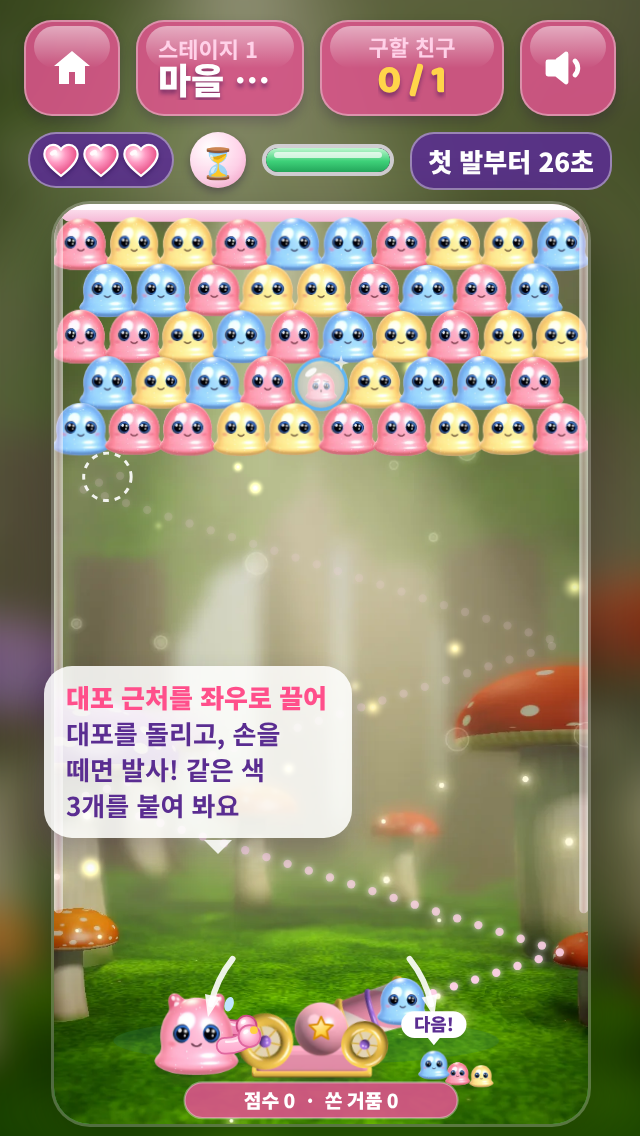
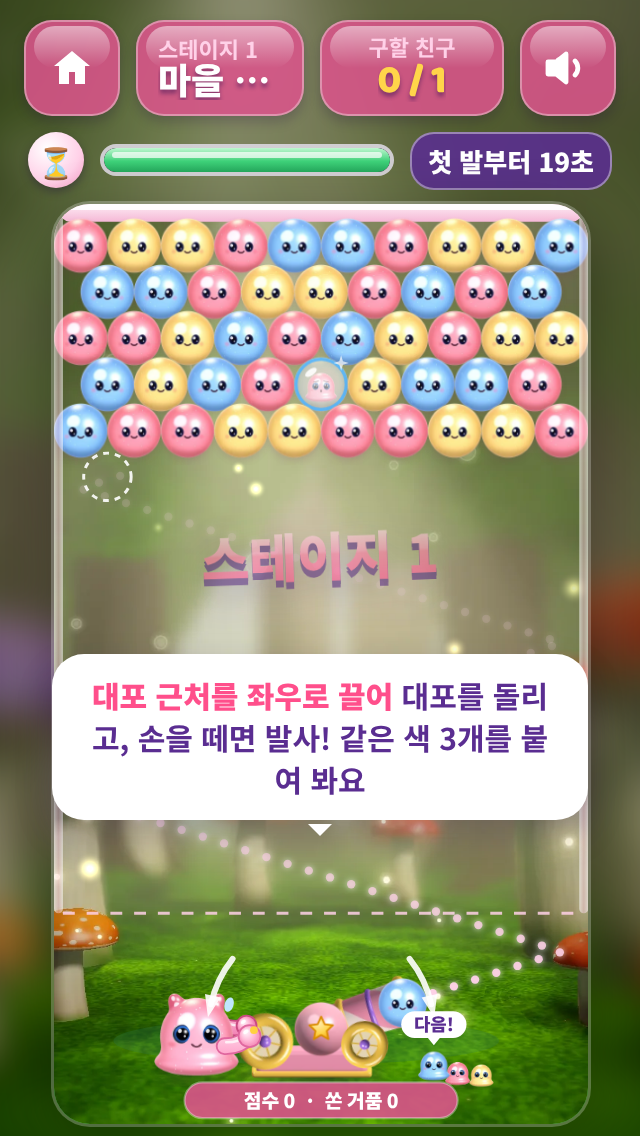
0.15.0: 부두목전·보너스 스테이지·생명 3개·젤리 표정·낮아진 게임 오버 선·구미 젤리 모양
Claude-Session: https://claude.ai/code/session_01AosnshKJVAfHh3YQHkDpCG

diff --git a/index.html b/index.html
@@ -1094,8 +1094,8 @@ function lowerCeiling(rows, text, kind = 'ceil') {
   sfx('boss');
   if (G.state === 'aim') {
     G.b.y0 = G.y0Target;
-    if (Board.lowestY(G.b) + R > LOSE_Y) finish(false, 'line');
-    else obsCrush();
+    if (Board.lowestY(G.b) + R > LOSE_Y) { finish(false, 'line'); return; }   // 생명을 잃었거나 게임 오버: 심술 놈놈은 안 나옴
+    obsCrush();
   }
   nomCameo(kind);
 }
@@ -1152,7 +1152,7 @@ function hazardsAfterShot() {
     if (n % cv.every === 0) {
       cv.rows.forEach((r, i) => Board.shiftRow(b, r, i % 2 ? -1 : 1));
       const fl = Board.floating(b);
-      fl.forEach(([y, x]) => { const cell = b.rows[y][x], q = Board.pos(b, y, x); b.rows[y][x] = null; G.falls.push({ x: q.x, y: q.y, vy: -40, vx: 0, c: cell.c, friend: cell.friend }); if (cell.friend !== undefined) rescue(cell.friend, q); });
+      fl.forEach(([y, x]) => { const cell = b.rows[y][x], q = Board.pos(b, y, x); b.rows[y][x] = null; G.falls.push({ x: q.x, y: q.y, vy: -40, vx: 0, c: cell.c, friend: cell.friend }); if (cell.friend !== undefined) rescue(cell.friend, q); if (cell.k === 'h') G.bonusTicket = true; });
       showToast(T('컨베이어가 움직여요!')); sfx('swap');
     } else if ((n + 1) % cv.every === 0) { h.convWarn = true; }
   }
@@ -1796,7 +1796,8 @@ function warmSprites(st) {
   if ((st.kinds || []).join('').includes('q') || (st.boss && st.boss.lucky)) Art.sprite('bub-q', () => SPR.bubble('q'), dpr, spriteReady);
   const kinds = new Set((st.kinds || []).join('').replace(/[.ckzq]/g, ''));
   if (st.boss && st.boss.sticky) kinds.add('s');
-  kinds.forEach(k => { for (const c of st.colors) Art.sprite('bx-' + c + k, () => SPR.bubx(c, k), dpr, spriteReady); });
+  kinds.delete('h');
+  kinds.forEach(k => { for (const c of st.colors) { Art.sprite('bx-' + c + k, () => SPR.bubx(c, k), dpr, spriteReady); for (const m of ['happy', 'joy', 'worried', 'o']) if (isJel(c)) Art.sprite('bj-' + c + '-' + m + k, () => SPR.bjel(c, m, k), dpr, spriteReady); } });
   if (keysOf(st).some(k => k.startsWith('nom'))) for (const m of ['angry', 'worried']) Art.sprite('nom-' + m, () => SPR.nom(m), dpr, spriteReady);
   st.friends.forEach((f, i) => { for (const c of st.colors) Art.sprite('fr-' + c + '-' + f.color, () => SPR.friend(c, f.color), dpr, spriteReady); Art.sprite('jel-' + f.color + '-14-joy', () => SPR.jelly(f.color, 14, { mood: 'joy' }), dpr, spriteReady); });
   for (const c of st.colors) for (const m of ['happy', 'joy', 'worried', 'o']) Art.sprite('bj-' + c + '-' + m, () => SPR.bjel(c, m), dpr, spriteReady);
@@ -1818,7 +1819,7 @@ function resize() {
   if (G) warmSprites(G.st);
 }
 let resizeTimer;
-window.addEventListener('resize', () => { clearTimeout(resizeTimer); resizeTimer = setTimeout(() => { if (!$('play').hidden) resize(); }, 150); });
+window.addEventListener('resize', () => { clearTimeout(resizeTimer); resizeTimer = setTimeout(() => { if (!$('play').hidden) { resize(); placeTip(); if (!$('hzCard').hidden) placeAboveCannon($('hzCard')); } }, 150); });
 
 function burst(x, y, c, n) {
   for (let i = 0; i < n; i++) {
@@ -3036,7 +3037,7 @@ function showToast(text) { const el = $('toast'); el.textContent = text; el.clas
 let tipTimer;
 function hideTip() { clearTimeout(tipTimer); $('tip').classList.add('hide'); }
 // 판 안내는 6초 뒤 저절로 사라진다 (첫 발을 쏴도 바로 사라짐)
-function showTip() { $('tip').innerHTML = G.st.tip; $('tip').classList.remove('hide'); clearTimeout(tipTimer); tipTimer = setTimeout(hideTip, 6000); }
+function showTip() { $('tip').innerHTML = G.st.tip; $('tip').classList.remove('hide'); placeTip(); clearTimeout(tipTimer); tipTimer = setTimeout(hideTip, 6000); }
 // 생명 하트 (위쪽 시간 게이지 왼쪽). bump: 방금 잃음(true) / 얻음('gain')
 const HEART_SVG = '<svg viewBox="0 0 24 22" aria-hidden="true"><defs><radialGradient id="hpg" cx=".35" cy=".3" r=".8"><stop offset="0" stop-color="#fff"/><stop offset=".35" stop-color="#ff9cc4"/><stop offset="1" stop-color="#e0306e"/></radialGradient></defs><path d="M12 21C5 15.5 1.5 11.6 1.5 7.2 1.5 3.9 4 1.5 7 1.5c2.1 0 3.8 1.1 5 2.8 1.2-1.7 2.9-2.8 5-2.8 3 0 5.5 2.4 5.5 5.7 0 4.4-3.5 8.3-10.5 13.8z" fill="url(#hpg)" stroke="#fff" stroke-width="1.4"/><ellipse cx="7.2" cy="6.4" rx="2.4" ry="1.5" fill="#fff" opacity=".85" transform="rotate(-30 7.2 6.4)"/></svg>';
 function updateLives(bump) {
@@ -3088,6 +3089,13 @@ function hzIcon(art) {
   });
 }
 // 안내 창은 대포 위를 가리지 않게 (0.15.0 Owner: 대포 속 거품 색이 안 보임): 창 아래 끝을 대포 포신 끝보다 위에 둔다
+// 시작 안내 말풍선: #stageWrap 안에서 아래 끝을 포신 끝(+대포 속 거품)보다 위로
+function placeTip() {
+  const wrap = $('stageWrap').getBoundingClientRect(), r = canvas.getBoundingClientRect();
+  if (!r.height) return;
+  const cut = r.top + (PIVOT.y - 120) * r.height / H;
+  $('tip').style.bottom = Math.max(8, Math.round(wrap.bottom - cut)) + 'px';
+}
 function placeAboveCannon(el) {
   const r = canvas.getBoundingClientRect();
   if (!r.height) return;
@@ -3486,7 +3494,7 @@ function showResult() {
     // 놈놈이 깔깔 (말랑이는 옆에서 울먹)
     $('resultMascot').innerHTML = cachedArt('mascotOver', () => Art.img(Art.nomnom(205, 92, 40, { mood: 'happy', mini: true }) + Art.jelly(92, 112, 30, MAL, { ears: true, mood: 'worried' }) + `<ellipse cx="80" cy="118" rx="3" ry="6" fill="#8fd3ff" opacity="0.9"/>` + Art.sparkle(275, 34, 8, '#ffe27a'), { x: 40, y: 10, w: 320, h: 150 }));
     $('resultSticker').innerHTML = '';
-    $('resultMsg').textContent = o.reason === 'line' ? T('생명 3개를 다 썼어요! 위쪽 줄기를 끊어 한꺼번에 떨어뜨려 봐요.') : o.reason === 'time' ? T('시간이 다 됐어요! 망설이지 말고 빨리 쏴 봐요.') : T('생명을 다 썼어요. 다시 해 볼까요?');
+    $('resultMsg').textContent = o.reason === 'line' ? T('생명을 다 썼어요! 위쪽 줄기를 끊어 한꺼번에 떨어뜨려 봐요.') : o.reason === 'time' ? T('시간이 다 됐어요! 망설이지 말고 빨리 쏴 봐요.') : T('생명을 다 썼어요. 다시 해 볼까요?');
     $('resultMain').textContent = T('다시 하기');
     $('resultMain').onclick = () => startStage(st.id);
     $('resultSub').textContent = T('지도로');
@@ -3558,6 +3566,7 @@ function revive() {
   G.continues = (G.continues || 0) + 1;
   P.lives = Math.max(P.lives, 1); saveP(); updateLives();   // 이어하기 = 마지막 생명 1개로 계속
   pushBack(G.outcome && G.outcome.reason);
+  G.cameo = null; G.face = null;
   $('result').hidden = true; $('app').inert = false;
   if (G.state === 'done') return;
   showToast(T('이어서 해 봐요!'));
@@ -3587,8 +3596,9 @@ function pushBack(reason) {
     if (q.y + R <= safe) return;
     row[c] = null; G.falls.push({ x: q.x, y: q.y, vy: -40, vx: 0, c: cell.c, friend: cell.friend });
     if (cell.friend !== undefined) rescue(cell.friend, q);
+    if (cell.k === 'h') G.bonusTicket = true;   // 치워진 보너스 젤리도 받은 것으로
   }));
-  Board.floating(b).forEach(([y, x]) => { const cell = b.rows[y][x], q = Board.pos(b, y, x); b.rows[y][x] = null; G.falls.push({ x: q.x, y: q.y, vy: -40, vx: 0, c: cell.c, friend: cell.friend }); if (cell.friend !== undefined) rescue(cell.friend, q); });
+  Board.floating(b).forEach(([y, x]) => { const cell = b.rows[y][x], q = Board.pos(b, y, x); b.rows[y][x] = null; G.falls.push({ x: q.x, y: q.y, vy: -40, vx: 0, c: cell.c, friend: cell.friend }); if (cell.friend !== undefined) rescue(cell.friend, q); if (cell.k === 'h') G.bonusTicket = true; });
   if (reason === 'time' && h.clock !== null) h.clock += 20;
   h.timeUp = false;
   h.shotT = h.cfg.shotTimer || 0; G.aiming = false;   // 한 발 초침도 처음부터
@@ -3647,7 +3657,7 @@ function playStory(id, then) {
   $('app').inert = true;
   sceneReady(() => JellyStory.open(id, () => { $('app').inert = false; then(); }, { sfx }));
 }
-$('playMap').onclick = () => { G = null; $('result').hidden = true; go('map'); };
+$('playMap').onclick = () => { if (G && G.mode === 'bonus') return endBonus(); G = null; $('result').hidden = true; go('map'); };   // 보너스 중이면 이야기 컷신까지 원래 흐름대로
 // 결과 창: 포커스를 창 안에 가두고, Esc는 지도로
 $('result').addEventListener('keydown', e => {
   const btns = [$('resultAd'), $('resultMain'), $('resultSub')].filter(b => !b.hidden);
@@ -3656,6 +3666,7 @@ $('result').addEventListener('keydown', e => {
     btns[(i + (e.shiftKey ? btns.length - 1 : 1)) % btns.length].focus(); e.preventDefault();
   } else if (e.key === 'Escape') {
     const win = G && G.outcome && G.outcome.win;
+    if (win && G.bonusTicket) return $('resultMain').click();   // 보너스는 건너뛰지 않는다
     $('result').hidden = true; G = null;
     if (win) { const id = Number($('resultMain').dataset.stage); walkFrom = id - 1; playStory(id, () => go('map')); }   // Esc로 나가도 처음 깬 이야기는 보여 준다
     else go('map');

diff --git a/stages.js b/stages.js
@@ -192,7 +192,7 @@ window.JellyStages = (() => {
     u: { title: T('흔들 푸딩'), text: T('푸딩 옆에 거품을 붙였는데 안 터지면 푸딩 색이 바뀌어요.'), how: T('바뀐 색을 잘 보고 맞혀요.'), art: 'u' },
     caramel: { title: T('캐러멜 방울'), text: T('몇 발마다 캐러멜 방울이 떨어져 거품 판 아래에 붙어요.'), how: T('떨어지기 전에 깜빡이는 표시를 봐요.'), art: 'caramel' },
     'clock-soft': { title: T('타임 어택'), text: T('시간이 끝나면 천장이 2칸 내려오고, 그 뒤로는 천장이 두 배 빨리 내려와요!'), how: T('남은 시간이 많으면 별이 늘어나요.'), art: 'clock' },
-    'clock-hard': { title: T('진짜 타임 어택'), text: T('시간이 끝나기 전에 친구를 구하지 못하면 실패예요.'), how: T('망설이지 말고 빨리!'), art: 'clock' },
+    'clock-hard': { title: T('진짜 타임 어택'), text: T('시간이 끝나면 생명 1개를 잃고 20초가 더 생겨요. 생명을 다 쓰면 실패!'), how: T('망설이지 말고 빨리!'), art: 'clock' },
     z: { title: T('폭탄 거품'), text: T('심지 달린 폭탄 거품에 거품을 붙이면 펑! 둘레 두 칸까지 색 상관없이 한꺼번에 터져요.'), how: T('친구 옆 폭탄을 노려요. 폭탄끼리는 연쇄 폭발!'), art: 'z' },
     q: { title: T('랜덤 거품'), text: T('물음표 거품에 거품을 붙이면 터지면서 무언가 나와요. 폭탄·무지개·반딧불·시간 충전이 나오면 행운!'), how: T('가끔은 안개·천장 한 칸·색 섞기 같은 꽝도 있어요. 운을 걸어 봐요!'), art: 'q' },
     h: { title: T('보너스 젤리'), text: T('별이 달린 금빛 젤리를 터뜨리거나 떨어뜨린 뒤 판을 깨면 보너스 스테이지가 열려요.'), how: T('보너스 스테이지에서 젤리를 8명 이상 구하면 생명 +1!'), art: 'h' },

diff --git a/lang-en.js b/lang-en.js
@@ -180,7 +180,7 @@ JellyI18n.add({
   "최종 보스 클리어!": "Final Boss Clear!",
   "다음 스테이지로": "Next Stage",
   "아쉬워요!": "So close!",
-  "생명 3개를 다 썼어요! 위쪽 줄기를 끊어 한꺼번에 떨어뜨려 봐요.": "All 3 lives are gone! Cut a branch near the top to drop many at once.",
+  "생명을 다 썼어요! 위쪽 줄기를 끊어 한꺼번에 떨어뜨려 봐요.": "Out of lives! Cut a branch near the top to drop many at once.",
   "시간이 다 됐어요! 망설이지 말고 빨리 쏴 봐요.": "Time's up! Don't hesitate, shoot fast.",
   "생명을 다 썼어요. 다시 해 볼까요?": "Out of lives. Try again?",
   "월드 {n}": "World {n}",
@@ -315,7 +315,7 @@ JellyI18n.add({
   "시간이 끝나면 천장이 2칸 내려오고, 그 뒤로는 천장이 두 배 빨리 내려와요!": "When time runs out, the ceiling drops 2 rows, then keeps dropping twice as fast!",
   "남은 시간이 많으면 별이 늘어나요.": "More time left means more stars.",
   "진짜 타임 어택": "Real Time Attack",
-  "시간이 끝나기 전에 친구를 구하지 못하면 실패예요.": "If you can't save the friends before time runs out, you lose.",
+  "시간이 끝나면 생명 1개를 잃고 20초가 더 생겨요. 생명을 다 쓰면 실패!": "When time runs out you lose a life and get 20 more seconds. Out of lives means game over!",
   "망설이지 말고 빨리!": "Don't hesitate, be quick!",
   "폭탄 거품": "Bomb Bubble",
   "심지 달린 폭탄 거품에 거품을 붙이면 펑! 둘레 두 칸까지 색 상관없이 한꺼번에 터져요.": "Stick a bubble to a bomb with a fuse and boom! Everything within two spaces pops, whatever the color.",

diff --git a/sw.js b/sw.js
@@ -2,7 +2,7 @@
 // 처음 열 때 게임 파일을 저장해 두고, 다음부터는 인터넷이 없어도 게임이 뜬다.
 // 페이지·스크립트는 늘 새 파일 먼저(인터넷이 없을 때만 저장본) → 새 index.html 과 옛 스크립트가 섞이지 않는다.
 // 그림(webp·png)·글꼴은 저장본 먼저 → 그림을 바꿨으면 VERSION 숫자를 올리기. (tests/monetize.test.mjs 가 목록 누락을 잡는다)
-const VERSION = 'jellypop-v0.14.0';
+const VERSION = 'jellypop-v0.15.0';
 const PRECACHE = [
   './',
   'index.html',

diff --git a/CHANGELOG.md b/CHANGELOG.md
@@ -1,5 +1,18 @@
 # CHANGELOG
 
+## 0.15.0 — 2026-10-29 · 부두목전·보너스 스테이지·생명 3개·젤리 표정·낮아진 게임 오버 선 (Owner: "테마 마지막 스테이지는 노놈 부하들이 나와서 부두목 보스전", "캐논 위에 안내 팝업 하지 마", "보너스 버블 → 보너스 스테이지, 잘하면 생명 하나 추가", "생명 3개로 시작", "상황에 맞게 젤리 표정", "게임오버 라인이 너무 높음", "구슬보다 젤리 느낌")
+- **부두목전**: 6·12·18·24 보스를 "부두목"으로(위 표시·지도·체력 막대 이름). 처음부터 놈놈 부하가 출동(6 훔치기 · 12 회색 거품·훔치기 · 18 훔치기·대포 막기 · 24 대포 막기·친구 데려가기, 6발마다), 시작할 때 "놈놈 부하들아, 나와라!". 보스 양옆에 꼬마 놈놈 경호원 둘이 통통, 부하가 판으로 나가면 그 자리가 비고 보스가 쓰러지면 허둥지둥 달아남. 30 노놈도 처음부터 부하(기존 단계 변화는 그대로). 월드 1(6스테이지)에서도 놈놈 설명 카드
+- **안내 창이 대포를 안 가림**: 시작 안내 말풍선을 위로(판 아래 31%), 새 방해 설명 카드는 화면 크기에 맞춰 아래 끝을 포신 끝보다 위에 둠 → 대포 속 거품 색이 항상 보임
+- **보너스 젤리 → 보너스 스테이지**: 별 달린 금빛 보너스 젤리(3·8·14·20·26, 월드마다 1개). 터뜨리거나 떨어뜨리고 판을 깨면 클리어 창 버튼이 "🎁 보너스 스테이지" → 20초 동안 거품에 갇힌 젤리 12명이 세 줄로 둥실둥실 지나가고, 대포로 맞혀 구하기(1명 100점). 8명 이상 구하면 **생명 +1**(최대 5). 끝나면 이야기 컷신 → 지도(원래 흐름)
+- **생명 3개**: 위쪽 시간 게이지 왼쪽에 하트 3개. 거품이 바닥(말랑이·대포)에 닿으면 하트 1개가 깨지고(빨간 번쩍 + 말랑이 머리 위 깨진 하트) 판이 3칸 밀려 올라가 그대로 계속. 3개 다 쓰면 GAME OVER, 다시 하면 3개. 생명은 다음 판으로 이어짐. 진짜 타임 어택(29)도 시간 끝 = 생명 -1 + 20초. 광고 이어하기는 마지막 생명 1개로 계속
+- **게임 오버 선 낮춤**: 예전 점선(대포 포신 끝 높이 478) → 말랑이 머리·대포 몸통 높이(532). 평소 점선은 없애고, 거품이 2줄 안으로 다가오면 바닥이 빨갛게 숨 쉬듯 깜빡이며 경고
+- **젤리 느낌**: 판 거품을 유리구슬 → 말랑한 투명 구미 젤리(미리 구운 3D 젤리 그림)로. 가만히 있어도 말랑말랑 숨 쉬고, 거품이 붙거나 터지면 둘레가 물결처럼 출렁. 날아가는 젤리는 쭉 늘어나고, 터질 때 납작하게 퍼졌다 톡, 떨어질 때 데굴데굴 돌며 깜짝 표정. 특수 거품 표시(시럽·얼음·버섯 등)는 젤리 위에 그대로
+- **젤리 표정**: 놈놈이 판에 있거나 거품이 바닥 가까이 오면 걱정, 천장 하강·보스 거품 공격·패널티 놈놈 땐 깜짝(o), 2연속 이상 터뜨리기·큰 묶음·친구 구출·놈놈 쫓아내기 땐 활짝. 표정은 일이 생긴 자리에서 물결처럼 퍼짐. 말랑이도 같은 기분. "N연속!" 글자 + 3연속부터 젤리 환호. 3D 젤리 그림 8장 추가(6색 깜짝 + 주황 활짝·걱정)
+- 진짜 타임 어택(29) 설명 카드: "시간이 끝나면 생명 1개를 잃고 20초 더, 생명을 다 쓰면 실패"
+- 자동 플레이 클리어율 100 → 97 → 98 → 98 → 90% (0.14.0: 100 → 92 → 95 → 78 → 85%) — 게임 오버 선이 낮아져 쉬워짐. 봇은 생명·놈놈 부하 피하기를 못 하므로 실제 체감은 휴대폰 확인 필요
+- 내부 리뷰 반영: 결과 창 Esc·플레이 중 지도 버튼으로 보너스 스테이지/이야기가 건너뛰어지지 않게, 컨베이어·생명 밀어내기로 치워진 보너스 젤리도 보너스로 인정, 이어하기 뒤 심술 놈놈·표정 초기화, 생명 잃은 순간엔 심술 놈놈 안 나옴, 특수 거품 젤리 표정 그림 미리 굽기, 안내 말풍선도 화면 크기·회전에 맞춰 대포 위로
+- 영어 문구 30여 개 `lang-en.js`. `sw.js` VERSION 0.15.0
+- 테스트: 새 `tests/lives-bonus.test.mjs`(25: 생명 3→2 계속·0이면 게임 오버·다시 하면 3, 예전 선과 새 선 사이에선 계속, 설명 카드·안내 말풍선이 대포보다 위, 부두목 4판+노놈 부하, 보너스 젤리 5판·보너스 표·보너스 스테이지 8명 → 생명 +1·지도로, 최대 5, 표정 3가지, 3D 그림 24장). 기존 테스트의 "실패 창" 검사는 마지막 생명(1개)에서 하도록 맞춤
 ## 0.14.0 — 2026-10-28 · 테마마다 짧아지는 조준선 + 지형 장애물 3종 (Owner "가이드라인이 다음 테마로 갈수록 짧아졌으면", "첫 판부터 너무 어렵지 않게", "나무 같은 것에 재미있게 걸려 있는 컨셉")
 - **조준선 길이**: 스테이지마다 조금씩 → 월드(테마)마다 한 단계씩 뚜렷하게. 월드 1 끝까지 · 2 400px · 3 300px · 4 210px · 5 140px (월드 안에서는 같음)
 - **첫 판 완화**: 스테이지 1 천장 간격 19 → 26초, 스테이지 2 → 23초

diff --git a/STATUS.md b/STATUS.md
@@ -28,3 +28,4 @@
 | result-score-gameover | REVIEW | 0.13.0 클리어 점수표(줄마다 점수 올라감·별 하나씩·최고 기록)·패널티 때 꼬마 놈놈 등장(천장 꾹/안개 뿅/뒤죽박죽 + 효과음)·게임 오버를 실패한 판 위 GAME OVER 글자+놈놈으로. 테스트 result 21 포함 9종 통과 | 2026-10-28 | Owner 휴대폰 확인 | 휴대폰에서 클리어·실패 화면, 놈놈 빈도 확인 |
 | world-music | REVIEW | 0.13.1 월드별 칩튠 5곡+보스 곡, 지도·다음 판·다시 하기에도 음악 이어짐(곡 바뀔 때만 크로스페이드), 휴대폰 소리 장치 멈춤 감지→터치로 복구. 테스트 8종 통과 | 2026-10-28 | Owner 휴대폰 확인 | 플레이 링크에서 월드 1→2 넘어가며 음악 바뀌는지, 앱을 나갔다 와서 소리 나는지 확인 |
 | difficulty-obstacles | REVIEW | 0.14.0 조준선 월드별 단계(끝까지→400→300→210→140px)·스테이지 1·2 천장 느긋하게·지형 장애물 3종(나뭇가지·솜사탕 거미줄·풍차 날개, 11개 스테이지). 테스트 8종 통과 | 2026-10-28 | Owner 휴대폰 체감 피드백 반영 | 플레이 링크에서 9·13·19스테이지 해 보기(장애물 재미·난이도) |
+| boss-bonus-lives | REVIEW | 0.15.0 부두목전(놈놈 부하)·대포 위 안내 창 치움·보너스 젤리→보너스 스테이지(생명 +1)·생명 3개·젤리 표정·게임 오버 선 낮춤·구미 젤리 모양. 테스트 10종 전부 통과(새 lives-bonus 25), 내부 리뷰 7건 반영 | 2026-10-29 | Owner 휴대폰 체감 피드백 반영, 젤리독 반영은 승인 시(L3) | 플레이 링크에서 3·6스테이지 해 보기 |

diff --git a/NEXT_STEPS.md b/NEXT_STEPS.md
@@ -25,3 +25,4 @@
 23. 0.13.0 결과 점수표·패널티 놈놈·게임 오버 연출 완료 → Owner: 휴대폰에서 클리어 점수표 속도(너무 길면 줄임)·놈놈 등장 빈도(지금 4초에 한 번)·GAME OVER 느낌 확인. 다음 후보: 실패 때도 짧은 점수표, 월드별 최고 점수 지도 표시, 토스 리더보드에 최종 점수 올리기
 24. 0.13.1 월드별 음악·음악 이어 듣기·휴대폰 소리 복구 완료 → Owner: 휴대폰에서 월드별 곡 느낌, 다른 앱 다녀온 뒤 소리 확인(안 나면 화면 한 번 누르기). 다음 후보: 클리어/실패 칩튠 징글, 곡별 음량 맞춤
 25. 0.14.0 조준선 월드 단계·지형 장애물 3종 완료 → Owner: 휴대폰에서 9(나뭇가지)·13(거미줄)·19(풍차)스테이지 체감 확인. 다음 후보: 장애물 숫자 조정(크기·위치·풍차 속도), 거미줄 내구도 2번, 움직이는 나뭇가지
+26. 0.15.0 부두목전·보너스 스테이지·생명 3개·젤리 표정·낮아진 게임 오버 선 완료 → Owner: 휴대폰에서 6스테이지(부하 빈도), 3스테이지 보너스 젤리 → 보너스 스테이지(20초·8명이 너무 쉬운지/어려운지), 생명 깨질 때 느낌, 젤리 모양·출렁임 확인. 다음 후보: 보너스 스테이지 종류 늘리기(떨어지는 젤리 받기 등), 생명 다 쓰면 기다리면 차는 하트, 부두목마다 전용 부하 행동, 젤리독 반영(운영 배포 L3)
